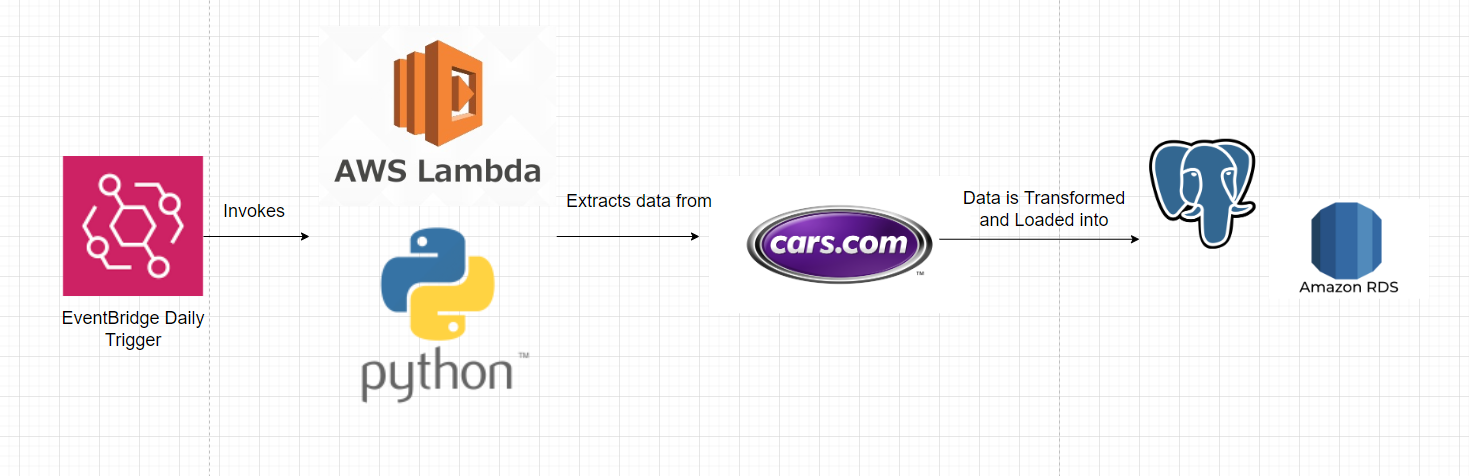
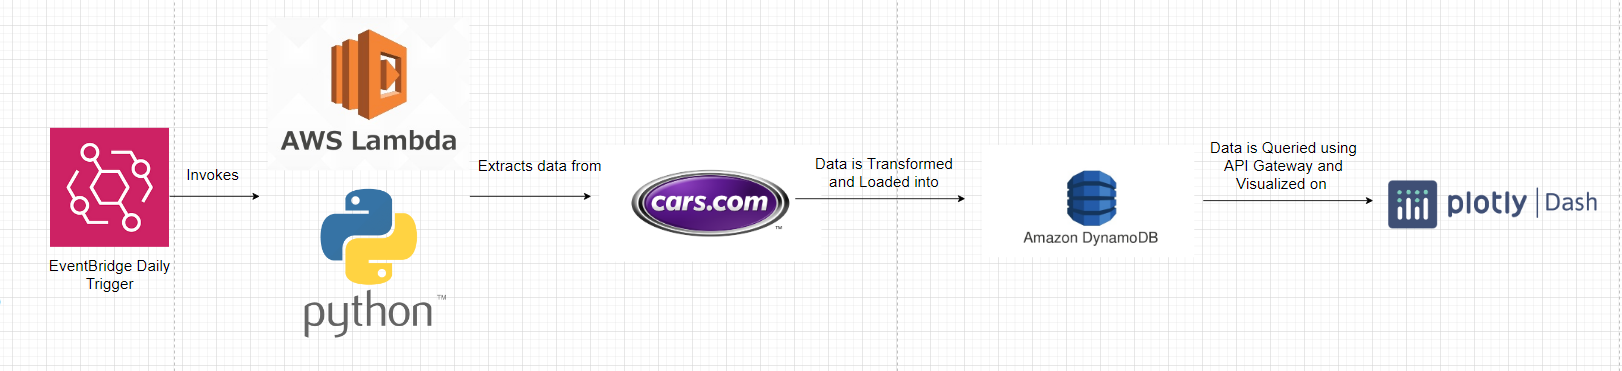
Updated pipeline image and README.md

Changed region(s): [[0.1838, 0.2668, 1.0, 0.9191], [0.0306, 0.0889, 0.3676, 0.8005]]

diff --git a/README.md b/README.md
@@ -1,97 +1,41 @@
 # Car Watch!
 
-Car Watch allows you to monitor the new listings on cars.com using RDS, Python, Lambda, and EventBridge.
+Car Watch is currently live!: http://carwatch-env.eba-jc2n7srx.us-east-1.elasticbeanstalk.com/
 
+Car Watch allows you to monitor the new listings on cars.com using DynamoDB, Python, Lambda, and EventBridge.
 
 ![alt text](images/pipeline_image.png)
 
-## Installing dependencies
-This code allows you to quickly scrape all available car data on cars.com. Before running this code, run 
+## Pulling Down the Car Listings
+The code found in the **extracting_and_loading_data** folder will allow you to first scrape all the car listing data. Run this command to install the dependencies.
 
 ```
 pip install -r requirements.txt
 ```
 
-to install all of the python dependencies.
 
-## **Setting up PostGreSQL and secret.py file**
+## **Setting up DynamoDB and secret.py file**
 
-On AWS, set up an RDS PostGreSQL instance and add your personal IP to the VPC groups. Then set your environment
-variables to the appropriate fields listed in the secret.py file.
-
+On AWS, set up a DynamoDB instance, make sure you keep track of the table name.
 
 ## **Extracting the data**
 
 Run 
 
 ```
-python async_scraper.py
+python extract_car_listings.py
 ```
 
 to scrape all of the data off of cars.com. Make to create a folder called "data" before running this script. 
 
 ## **Transforming and Loading the data**
 
-Run 
-
-```
-pyton transform_load.py
-```
-
-to aggregate and clean all of the scraped data. This script will also populate your RDS instance.
+Running the python notebook **batch_upload_to_dynamo.ipynb** will upload all of the csv files created to your Dynamo DB instance.
 
 
-## **Updating the database with new records**
+## **Updating the database with new listings with Lambda**
 
-To deploy **update_extract.py** on lambda. Move **update_extra.py** into its own separate folder. In the terminal, type 
+To make it so that your scraper runs every day and can fetch the latest car listings. Lambda is a useful tool to schedule CRON jobs. To learn how to install layers and dependencies on lambda, follow: https://docs.aws.amazon.com/lambda/latest/dg/python-package.html
 
-```
-pip install -t . bs4 requests
-```
-
-Zip together these files, and upload them to their own lambda function.
-
-In order to get pandas and numpy uploaded to Lambda. You must download the corresponding wheel files for your current python version.
-Then use the "wheel unpack" command on Linux to open the files. Then zip all of the produced folders and upload them as a layer to 
-lambda.
-
-You can also get the correct builds of psycopg2 using [this link](https://github.com/jkehler/awslambda-psycopg2)
-
-## Deploying your own API
-
-Similar to deploying **update_extract.py**. You can zip together the psycopg2 and get_lambda.py file and upload it to AWS lambda.
-Then, set up an API Gateway to trigger tha lambda function. Pass in "make" as a parameter and a JSON response of the newest car listings will be available. 
-
-You can test out my API here: `https://ios4w4z8wc.execute-api.us-west-1.amazonaws.com/test/car_data_scraper/?make={insert make of car here}`
-
-Suppported makes:
-
-```
-acura
-buick
-cadillac
-chevrolet
-chrysler
-gmc
-ford
-honda
-infiniti
-jeep
-kia
-mitsubishi
-nissan
-porsche
-ram
-subaru
-toyota
-volkswagen
-volvo
-alfa_romeo
-rolls_royce
-mini
-fiat
-aston_martin
-maserati
-bmw
-mercedes_benz
-```
+- **pull_new_daily_listings.py** : this code will scrape for new listings and populate the DB accordingly
+- **extract_car_listings.py** : this code allows you to set up an API gateway for external usage. Such as deploying to a dashboard or sharing with other users.
